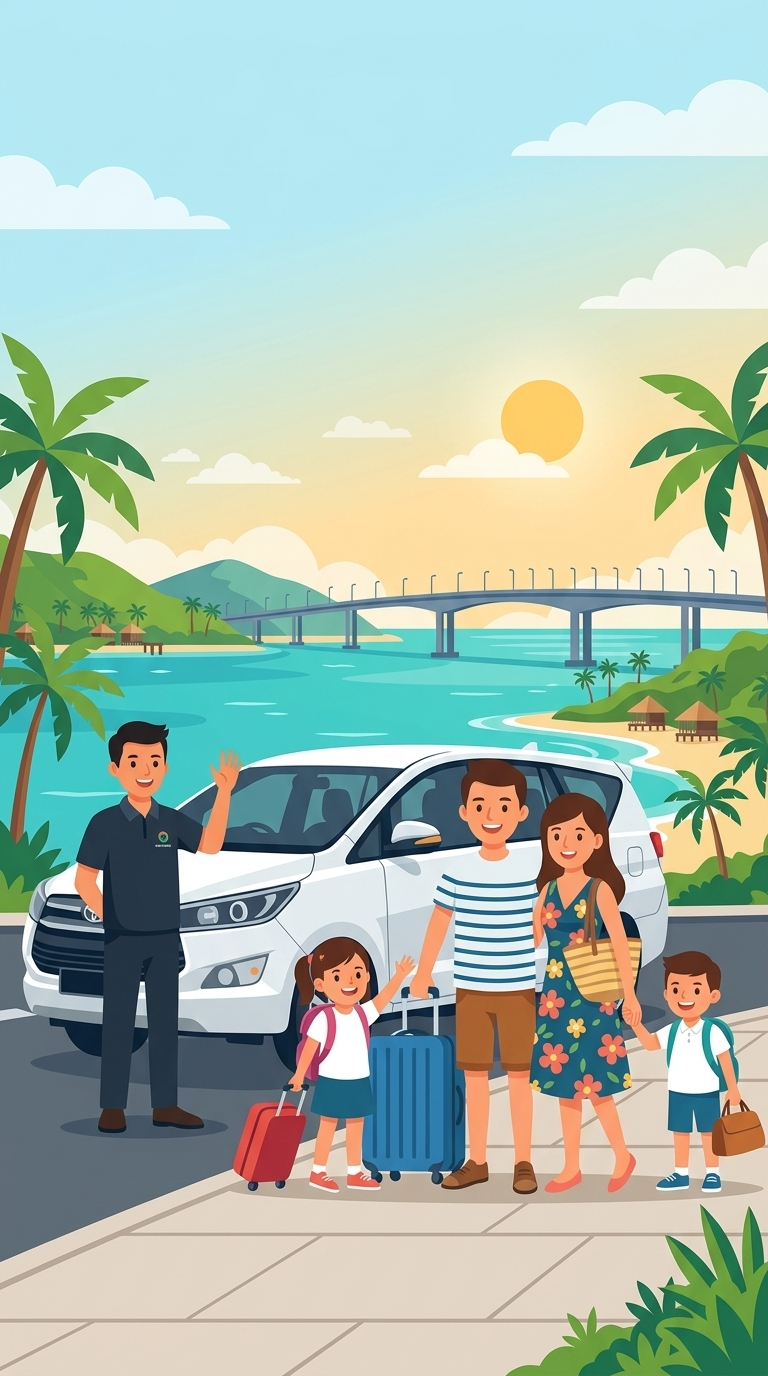
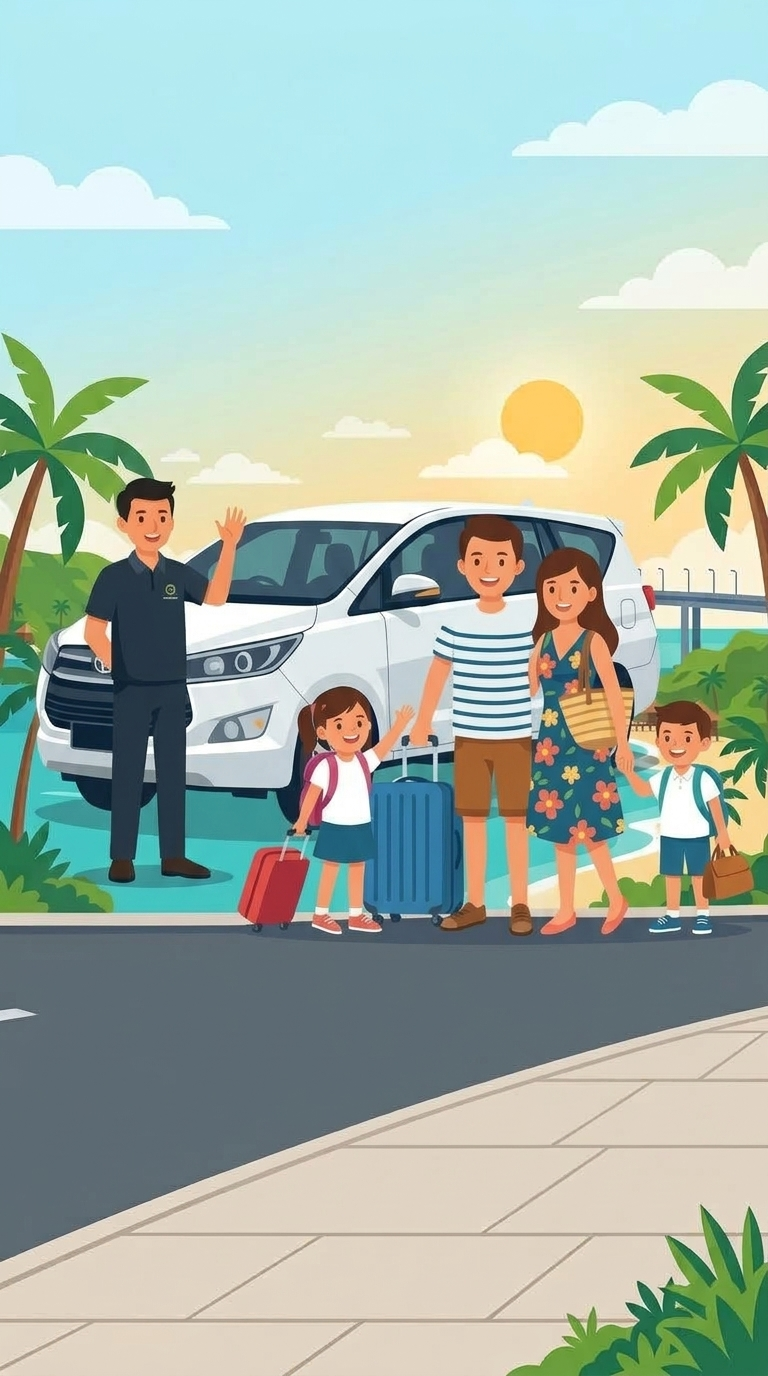
feat(rental-website): generate dedicated lepas kunci illustration and restore bottom text alignment in hero

diff --git a/rental-website/src/views/LayananView.vue b/rental-website/src/views/LayananView.vue
@@ -9,7 +9,7 @@ const waUrl = (text: string) => {
 
 const mainServices = [
   {
-    img: '/images/layanan-hero.jpg',
+    img: '/images/layanan-lepas-kunci.jpg',
     tag: 'Paling Fleksibel',
     tagColor: 'text-amber-400',
     title: 'Sewa Lepas Kunci',
@@ -35,7 +35,7 @@ const mainServices = [
   <div class="min-h-screen bg-white font-sans">
 
     <!-- ═══════════ HERO — RESPONSIVE (MOBILE & DESKTOP) ═══════════ -->
-    <section class="relative min-h-[100dvh] sm:h-screen sm:min-h-[560px] sm:max-h-[900px] flex flex-col justify-start sm:justify-end overflow-hidden pt-20 sm:pt-0">
+    <section class="relative h-screen min-h-[560px] max-h-[900px] flex items-end overflow-hidden">
       <picture class="absolute inset-0 w-full h-full">
         <source media="(max-width: 639px)" srcset="/images/layanan-hero-mobile.jpg" />
         <img
@@ -45,25 +45,24 @@ const mainServices = [
         />
       </picture>
 
-      <!-- Gradient overlays -->
-      <div class="absolute inset-0 bg-gradient-to-b from-slate-950/90 via-slate-950/40 to-slate-950/20 sm:hidden pointer-events-none"></div>
-      <div class="absolute inset-0 hidden sm:block bg-gradient-to-t from-slate-950 via-slate-950/45 to-slate-950/10 pointer-events-none"></div>
+      <!-- Gradient overlay -->
+      <div class="absolute inset-0 bg-gradient-to-t from-slate-950 via-slate-950/45 to-slate-950/10 pointer-events-none"></div>
 
-      <div class="relative z-10 w-full max-w-5xl mx-auto px-4 sm:px-6 lg:px-8 pt-2 pb-6 sm:pb-32">
-        <p class="text-[11px] sm:text-xs font-bold uppercase tracking-[0.15em] text-amber-400 mb-2 sm:mb-3">
+      <div class="relative z-10 w-full max-w-5xl mx-auto px-4 sm:px-6 lg:px-8 pb-20 sm:pb-32">
+        <p class="text-xs font-bold uppercase tracking-[0.15em] text-amber-400 mb-3">
           3 Putri Mulya · Bintan & Tanjung Pinang
         </p>
-        <h1 class="text-2xl sm:text-5xl lg:text-6xl font-black text-white tracking-tight leading-tight mb-2 sm:mb-3 max-w-xl drop-shadow-md">
+        <h1 class="text-3xl sm:text-5xl lg:text-6xl font-black text-white tracking-tight leading-tight mb-3 max-w-xl">
           Layanan untuk Setiap Perjalanan Anda
         </h1>
-        <p class="text-xs sm:text-base text-white/80 sm:text-white/55 mb-6 sm:mb-8 max-w-sm">
+        <p class="text-sm sm:text-base text-white/70 sm:text-white/55 mb-8 max-w-sm">
           Rental Mobil &nbsp;·&nbsp; Driver &nbsp;·&nbsp; Tour &nbsp;·&nbsp; Antar-Jemput
         </p>
-        <div class="flex flex-wrap items-center gap-2.5 sm:gap-3">
+        <div class="flex flex-wrap items-center gap-3">
           <a
             :href="waUrl('Halo 3 Putri Mulya, saya ingin tanya informasi layanan yang tersedia.')"
             target="_blank" rel="noopener noreferrer"
-            class="inline-flex items-center gap-2 px-5 py-2.5 sm:px-6 sm:py-3 rounded-full bg-emerald-500 hover:bg-emerald-400 text-white font-bold text-xs sm:text-sm transition-all active:scale-95 shadow-lg shadow-emerald-600/30"
+            class="inline-flex items-center gap-2 px-6 py-3 rounded-full bg-emerald-500 hover:bg-emerald-400 text-white font-bold text-sm transition-all active:scale-95"
           >
             <svg class="w-4 h-4" fill="currentColor" viewBox="0 0 24 24">
               <path d="M12.031 6.172c-3.181 0-5.767 2.586-5.768 5.766-.001 1.298.38 2.27 1.019 3.287l-.582 2.128 2.182-.573c.978.58 1.911.928 3.145.929 3.178 0 5.767-2.587 5.768-5.766.001-3.187-2.575-5.771-5.764-5.771zm3.392 8.244c-.144.405-.837.774-1.17.824-.299.045-.677.063-1.092-.069-.252-.08-.575-.187-.988-.365-1.739-.751-2.874-2.502-2.961-2.617-.087-.116-.708-.94-.708-1.793s.448-1.273.607-1.446c.159-.173.346-.217.462-.217l.332.006c.106.005.249-.04.39.298.144.347.491 1.2.534 1.287.043.087.072.188.014.304-.058.116-.087.188-.173.289l-.26.304c-.087.086-.177.18-.076.354.101.174.449.741.964 1.201.662.591 1.221.774 1.394.86.174.086.275.072.376-.043.101-.116.433-.506.549-.68.116-.173.231-.145.39-.087s1.011.477 1.184.564.289.13.332.202c.043.073.043.419-.101.824z"/>
@@ -72,7 +71,7 @@ const mainServices = [
           </a>
           <RouterLink
             to="/armada"
-            class="inline-flex items-center gap-1.5 px-5 py-2.5 sm:px-6 sm:py-3 rounded-full border border-white/40 bg-slate-950/20 backdrop-blur-xs text-white font-bold text-xs sm:text-sm hover:bg-white/10 transition-all"
+            class="inline-flex items-center gap-1.5 px-6 py-3 rounded-full border border-white/30 text-white font-bold text-sm hover:bg-white/10 transition-all"
           >
             Lihat Armada
             <svg class="w-3.5 h-3.5" fill="none" stroke="currentColor" viewBox="0 0 24 24">
